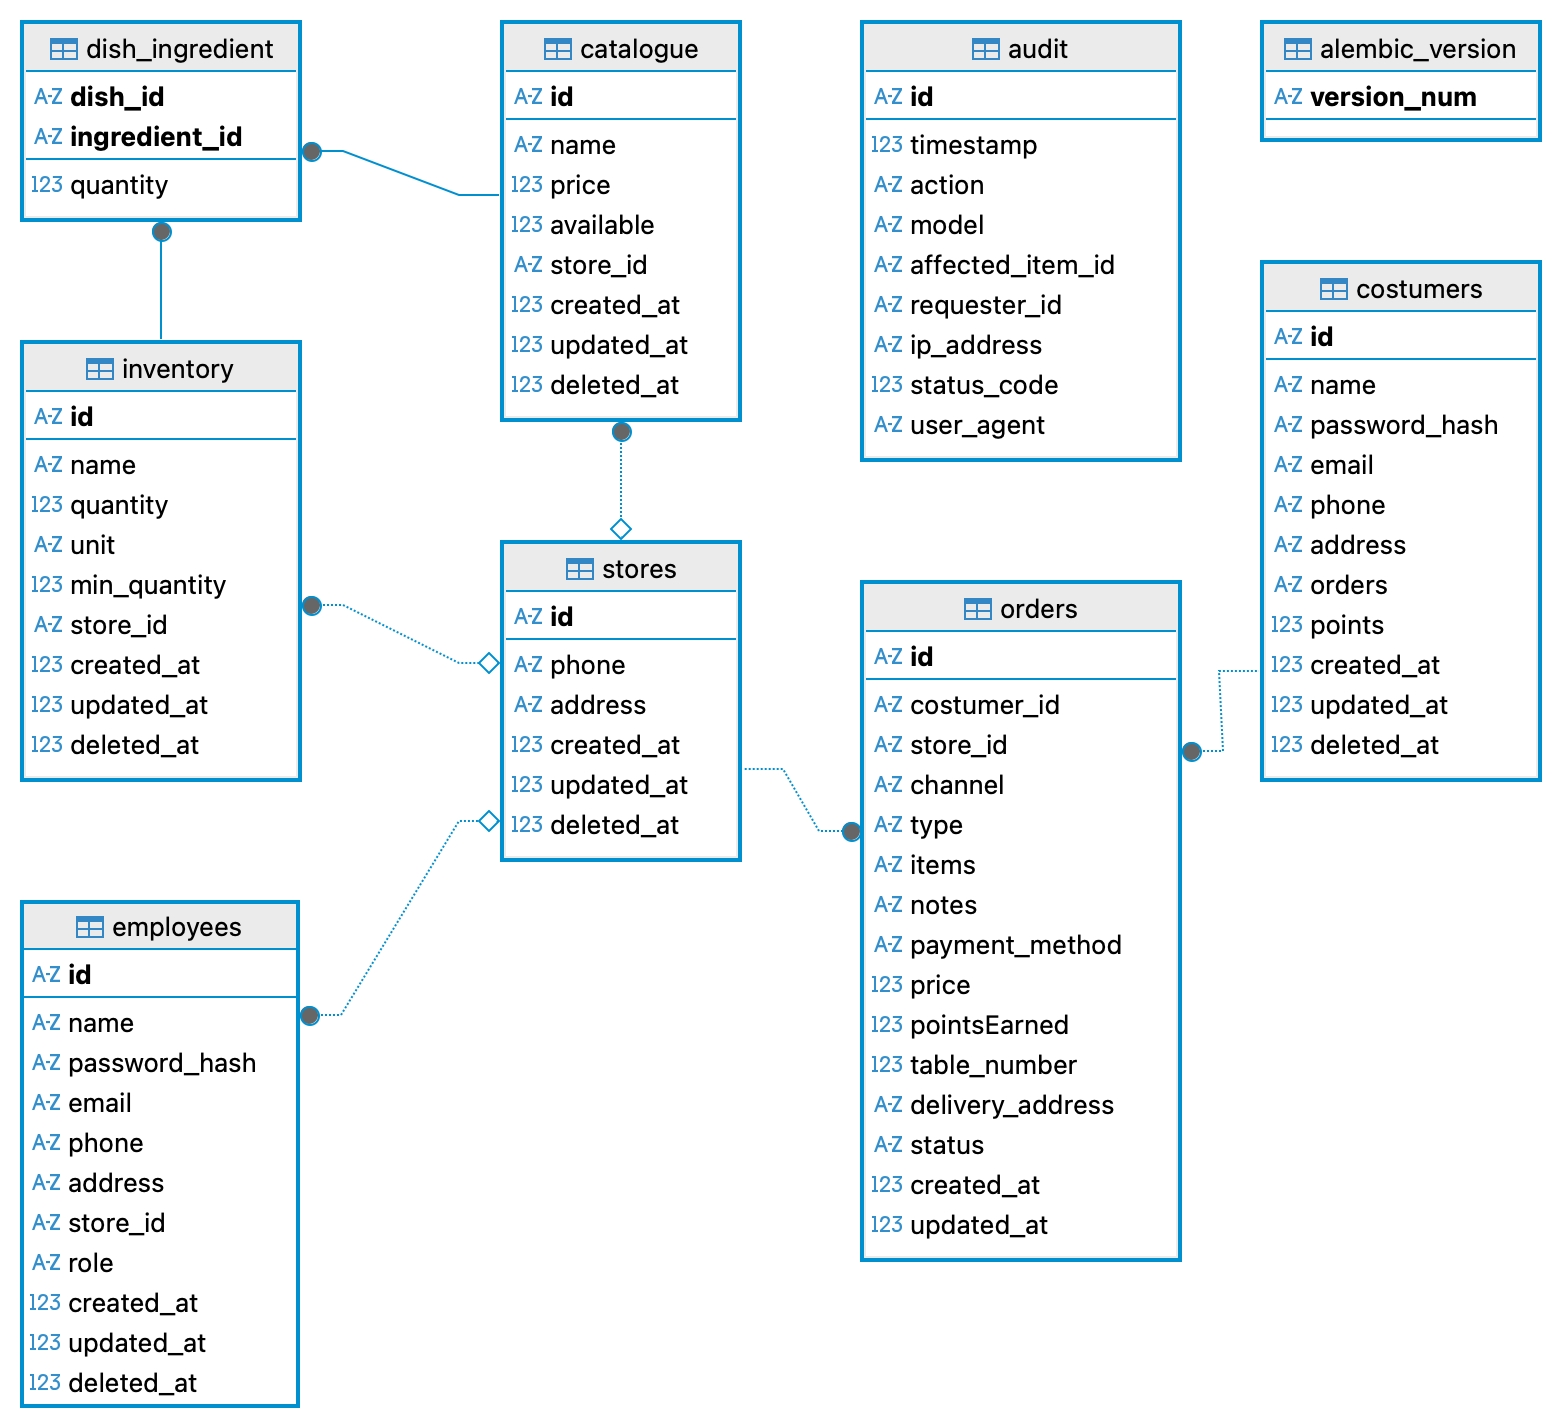
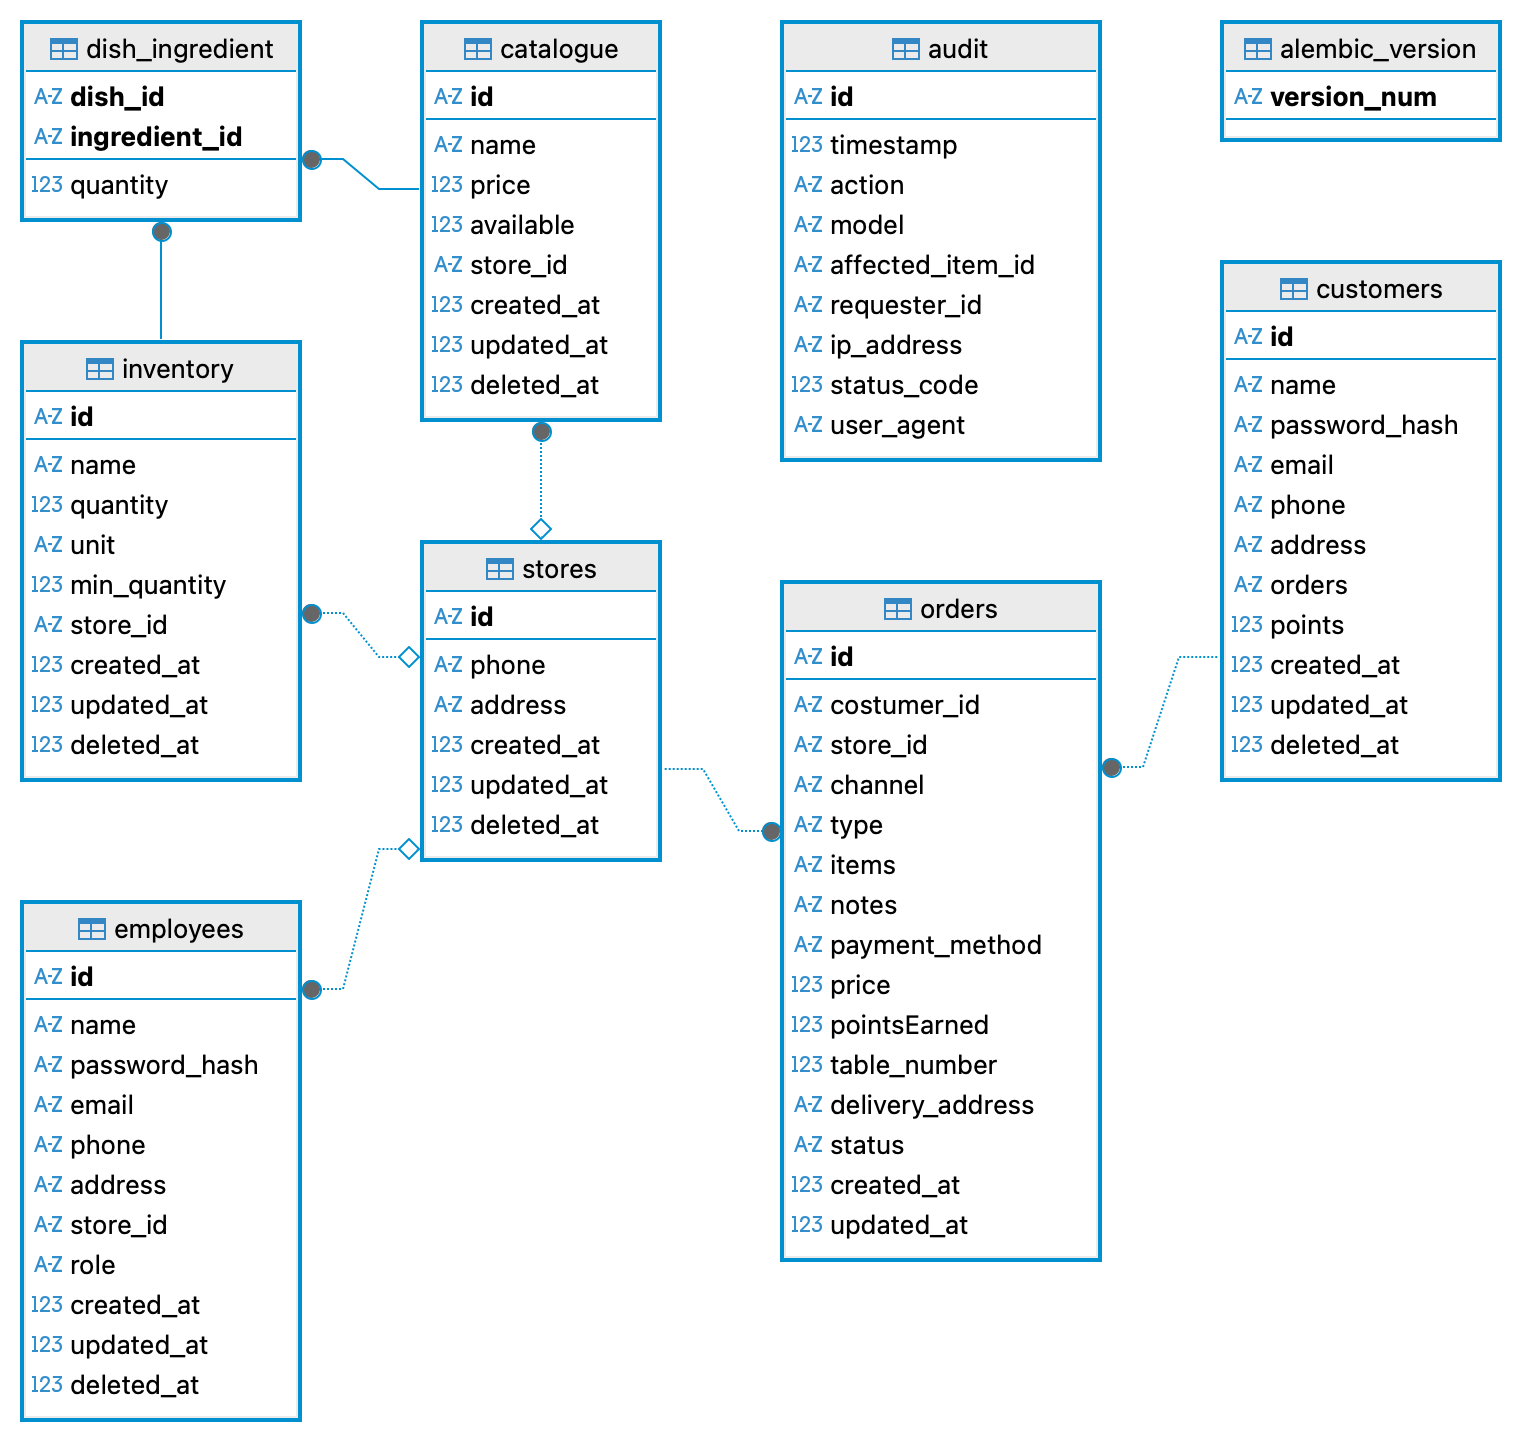
Update documentation for consistency and clarity in API and business rules

diff --git a/Documentation/capitulos/diagramas/regras_negocio.tex b/Documentation/capitulos/diagramas/regras_negocio.tex
@@ -9,7 +9,7 @@ A seguir, estão descritas as principais regras de negócio para cada área do s
 \label{subsec:auth}
 
 \begin{enumerate}[topsep=1pt, itemsep=0pt]
-  \item JWT Token com validade de 24 horas
+  \item JWT Token com validade de 1 hora
   \item Papéis: admin, gerente, chef, garçom, entregador
   \item Restrição de acesso por loja e papel
 \end{enumerate}
@@ -20,7 +20,7 @@ A seguir, estão descritas as principais regras de negócio para cada área do s
 \begin{enumerate}[topsep=1pt, itemsep=0pt]
   \item Aceite obrigatório de LGPD
   \item Exclusão de dados com soft delete
-  \item Pontos de fidelidade: 1 ponto por real gasto
+  \item Pontos de fidelidade: 1 ponto por real gasto (arredondado para baixo)
 \end{enumerate}
 
 \subsection{Gestão de Funcionários}
@@ -37,7 +37,7 @@ A seguir, estão descritas as principais regras de negócio para cada área do s
 
 \begin{enumerate}[topsep=1pt, itemsep=0pt]
   \item Apenas admin cria lojas
-  \item Associação de gerente obrigatório
+  \item Gerente é associado a uma loja
   \item Gerente adiciona funcionários à loja
 \end{enumerate}
 
@@ -68,7 +68,7 @@ A seguir, estão descritas as principais regras de negócio para cada área do s
   \item Cálculo de preço com taxa de 10\%
   \item Cálculo de pontos: (total com taxa) x 1
   \item Tipos: dine\_in, takeaway, delivery
-  \item Canais: app, totem, counter, web
+  \item Canais onde pedido pode ser criado: app, totem, balcão, web
   \item Métodos de pagamento: cash, credit\_card, pix, vale\_alimentacao
 \end{enumerate}
 

diff --git a/Documentation/capitulos/requisitos/nao_funcionais.tex b/Documentation/capitulos/requisitos/nao_funcionais.tex
@@ -6,8 +6,7 @@
   A segurança dos dados e das operações é fundamental para proteger informações sensíveis e garantir a integridade do sistema.
 
   \begin{itemize}[topsep=0pt, itemsep=0pt]
-    \item Criptografia de senhas usando bcrypt;
-    \item Implementação de HTTP para todas as comunicações;
+    \item Criptografia de senhas usando SHA-256-crypt;
     \item Validação obrigatória de JWT em endpoints protegidos;
     \item Token JWT codifica a função/role do usuário para autorização;
     \item Controle de acesso baseado em funções (role-based access control);
@@ -21,7 +20,7 @@
 
   \begin{itemize}[topsep=0pt, itemsep=0pt]
     \item Disponibilização de API REST como interface principal;
-    \item Suporte a múltiplos canais: App, Totem, Balcão, Pickup e Web;
+    \item Suporte a múltiplos canais: App, Totem, Balcão e Web;
     \item Rastreabilidade de origem (canal) em todas as transações.
   \end{itemize}
 \end{itemize}
@@ -62,7 +61,7 @@
     \item Registro de consentimento do usuário ao aceitar políticas de privacidade e LGPD;
     \item Minimização de dados: coleta apenas do necessário (nome, email, telefone, endereço);
     \item Retenção limitada: dados pessoais são mantidos apenas enquanto necessário para a finalidade;
-    \item Não exposição de dados sensíveis em respostas de API (ex: senhas, tokens internos).
+    \item Não exposição de dados sensíveis em respostas de API (ex: senhas sem hash, tokens internos).
   \end{itemize}
 \end{itemize}
 

diff --git a/Documentation/capitulos/endpoints/pedidos.tex b/Documentation/capitulos/endpoints/pedidos.tex
@@ -51,7 +51,7 @@
   "delivery_address": null,
   "status": "pending",
   "updated_at": 1778102233,
-  "type": "delivery",
+  "type": "takeaway",
   "costumer_id": "069fb788-0940-7431-8000-c1d2a353b3f0",
   "store_id": "069f3640-e1bc-7fa2-8000-a6059a7ab69a",
   "notes": "",
@@ -87,11 +87,11 @@
       }
     ],
     "payment_method": "pix",
-    "pointsEarned": 38,
+    "points_earned": 38,
     "delivery_address": null,
     "status": "pending",
     "updated_at": 1778102233,
-    "type": "delivery",
+    "type": "takeaway",
     "costumer_id": "069fb788-0940-7431-8000-c1d2a353b3f0",
     "store_id": "069f3640-e1bc-7fa2-8000-a6059a7ab69a",
     "notes": "",
@@ -128,11 +128,11 @@
       }
     ],
     "payment_method": "pix",
-    "pointsEarned": 38,
+    "points_earned": 38,
     "delivery_address": null,
     "status": "pending",
     "updated_at": 1778102233,
-    "type": "delivery",
+    "type": "takeaway",
     "costumer_id": "069fb788-0940-7431-8000-c1d2a353b3f0",
     "store_id": "069f3640-e1bc-7fa2-8000-a6059a7ab69a",
     "notes": "",
@@ -168,11 +168,11 @@
     }
   ],
   "payment_method": "pix",
-  "pointsEarned": 38,
+  "points_earned": 38,
   "delivery_address": null,
   "status": "pending",
   "updated_at": 1778102233,
-  "type": "delivery",
+  "type": "takeaway",
   "costumer_id": "069fb788-0940-7431-8000-c1d2a353b3f0",
   "store_id": "069f3640-e1bc-7fa2-8000-a6059a7ab69a",
   "notes": "",

diff --git a/Documentation/capitulos/endpoints/catalogo.tex b/Documentation/capitulos/endpoints/catalogo.tex
@@ -14,7 +14,7 @@
   "items": [
     {"ingredient_id": "id_carne_bovina", "quantity": 200.0},
     {"ingredient_id": "id_batata_frita", "quantity": 150.0}
-  ]
+  ],
   "price": 25.90,
   "available": true,
   "store_id": "069f3640-e1bc-7fa2-8000-a6059a7ab69a"
@@ -91,7 +91,7 @@
 
 \noindent\textbf{Body}: Nenhum campo é necessário
 
-\noindent\textbf{Path Parameters}: \texttt{item\_id}
+\noindent\textbf{Path Parameters}: \texttt{dish\_id}
 
 \noindent\textbf{Status Codes}: 200, 404
 
@@ -124,7 +124,7 @@
 }
 \end{minted}
 
-\noindent\textbf{Path Parameters}: \texttt{item\_id}
+\noindent\textbf{Path Parameters}: \texttt{dish\_id}
 
 \noindent\textbf{Status Codes}: 200, 403, 404, 422
 
@@ -151,7 +151,7 @@
 
 \noindent\textbf{Body}: Nenhum campo é necessário
 
-\noindent\textbf{Path Parameters}: \texttt{item\_id}
+\noindent\textbf{Path Parameters}: \texttt{dish\_id}
 
 \noindent\textbf{Status Codes}: 204, 403, 404
 

diff --git a/Documentation/config.tex b/Documentation/config.tex
@@ -27,7 +27,7 @@
 \def \titulo{Projeto Multidisciplinar Back-End}
 \def \subtitulo{Rede "Raízes do Nordeste"}
 \def \tipotrabalho{Estudo de Caso}
-\def \descricao{\tipotrabalho\ apresentado a \sigla\ como representação da capacidade de desenvolver uma solução que comprove o domínio dos elementos essenciais de um Back-End profissional.}
+\def \descricao{\tipotrabalho\ apresentado à \sigla\ como representação da capacidade de desenvolver uma solução que comprove o domínio dos elementos essenciais de um Back-End profissional.}
 \def \curso{Análise e Desenvolvimento de Sistemas}
 \def \coordenador{Me.\,Winston Sen Lun Fung}
 \def \orientadora{Me.\,Luciane Yanase Kanashiro}

diff --git a/Documentation/capitulos/arquitetura/decisoes_tecnicas.tex b/Documentation/capitulos/arquitetura/decisoes_tecnicas.tex
@@ -17,5 +17,5 @@ conforme requisitos do projeto.
 
 Para persistência de dados, escolheu-se SQLite por ser zero-config e adequado ao ambiente acadêmico.
 SQLAlchemy fornece abstração de banco de dados, facilitando migrações futuras sem afetar a lógica de negócio.
-SQLModel unificia modelos SQLAlchemy com schemas Pydantic, eliminando duplicação entre camadas de dados e API.
+SQLModel unifica modelos SQLAlchemy com schemas Pydantic, eliminando duplicação entre camadas de dados e API.
 Alembic complementa essa stack gerenciando versionamento de schema de forma reproduzível e auditável.

diff --git a/Documentation/capitulos/diagramas/05_catalogo.tex b/Documentation/capitulos/diagramas/05_catalogo.tex
@@ -41,7 +41,6 @@
   \begin{enumerate}
     \item Usuário seleciona um prato específico;
     \item Sistema retorna todas as informações do prato;
-    \item Se Gerente: pode ver ingredientes associados.
   \end{enumerate}
 
   \textbf{Fluxo Alternativo - Atualizar Prato}:
